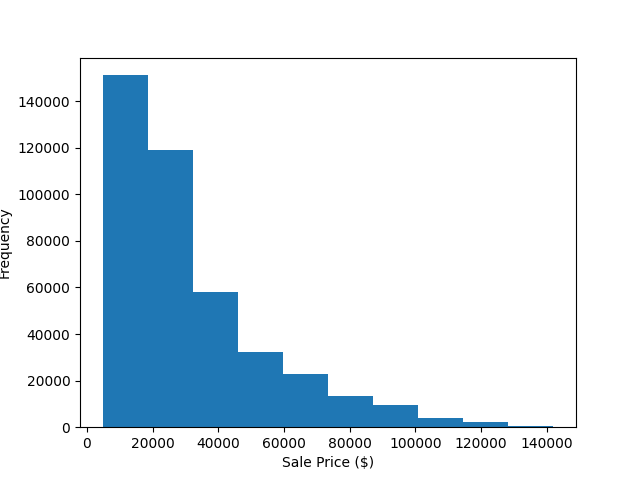
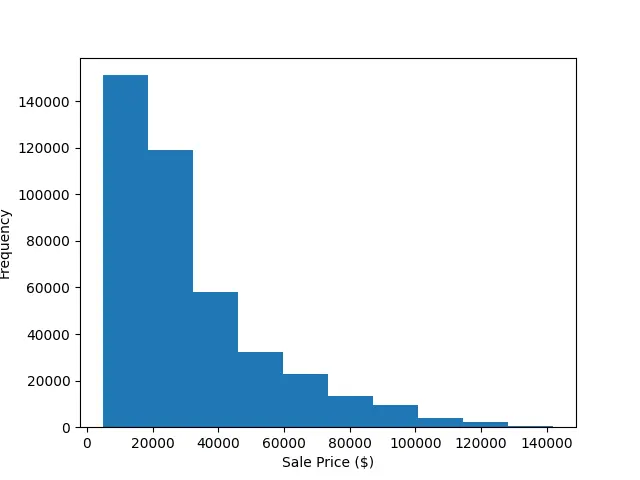
fix: Convert WebP images to PNG format to resolve Streamlit compatibility issues
FIXED IMAGE LOADING ERRORS:
- Converted WebP images to PNG format for better Streamlit compatibility
- Updated image paths in ML Pipeline page to use PNG files instead of WebP
- Resolved 'Error opening WebP file' issues in both inspection sections

IMAGES CONVERTED:
✅ results/sale_price_distribution.webp → results/sale_price_distribution.png
   - Original: 7,070 bytes (WebP, 640x480)
   - Converted: 40,067 bytes (PNG, 640x480, RGB)
   - Status: Successfully converted and verified

✅ results/median_saleprice_monthly.webp → results/median_saleprice_monthly.png
   - Original: 7,880 bytes (WebP, 589x432)
   - Converted: 46,737 bytes (PNG, 589x432, RGB)
   - Status: Successfully converted and verified

CODE UPDATES:
✅ Inspection: Sale Price Distribution section
   - Updated image path from 'results/sale_price_distribution.webp' to '.png'
   - Maintained all existing error handling and content structure

✅ Inspection: Median Sale Price Monthly section
   - Updated image path from 'results/median_saleprice_monthly.webp' to '.png'
   - Maintained all existing error handling and content structure

TECHNICAL DETAILS:
- Used PIL/Pillow for WebP to PNG conversion with optimization
- PNG format has better universal compatibility with Streamlit
- Maintained original image quality and dimensions
- Added PNG files to version control for deployment consistency

ROOT CAUSE ANALYSIS:
- WebP format compatibility issues with specific Streamlit versions
[…]

diff --git a/app_pages/six_ml_pipeline.py b/app_pages/six_ml_pipeline.py
@@ -72,8 +72,8 @@ def ml_pipeline_body():
     )
     # Add a checkbox to display the sale price distribution image
     if st.checkbox("Inspection: Sale Price Distribution"):
-        # Use more robust path resolution
-        image_path = "results/sale_price_distribution.webp"
+        # Use PNG format for better Streamlit compatibility
+        image_path = "results/sale_price_distribution.png"
 
         # Get absolute path for better reliability
         abs_image_path = os.path.abspath(image_path)
@@ -142,8 +142,8 @@ def ml_pipeline_body():
 
     # Add a checkbox to display the median sale price monthly image
     if st.checkbox("Inspection: Median Sale Price Monthly"):
-        # Use more robust path resolution
-        image_path = "results/median_saleprice_monthly.webp"
+        # Use PNG format for better Streamlit compatibility
+        image_path = "results/median_saleprice_monthly.png"
 
         # Get absolute path for better reliability
         abs_image_path = os.path.abspath(image_path)
